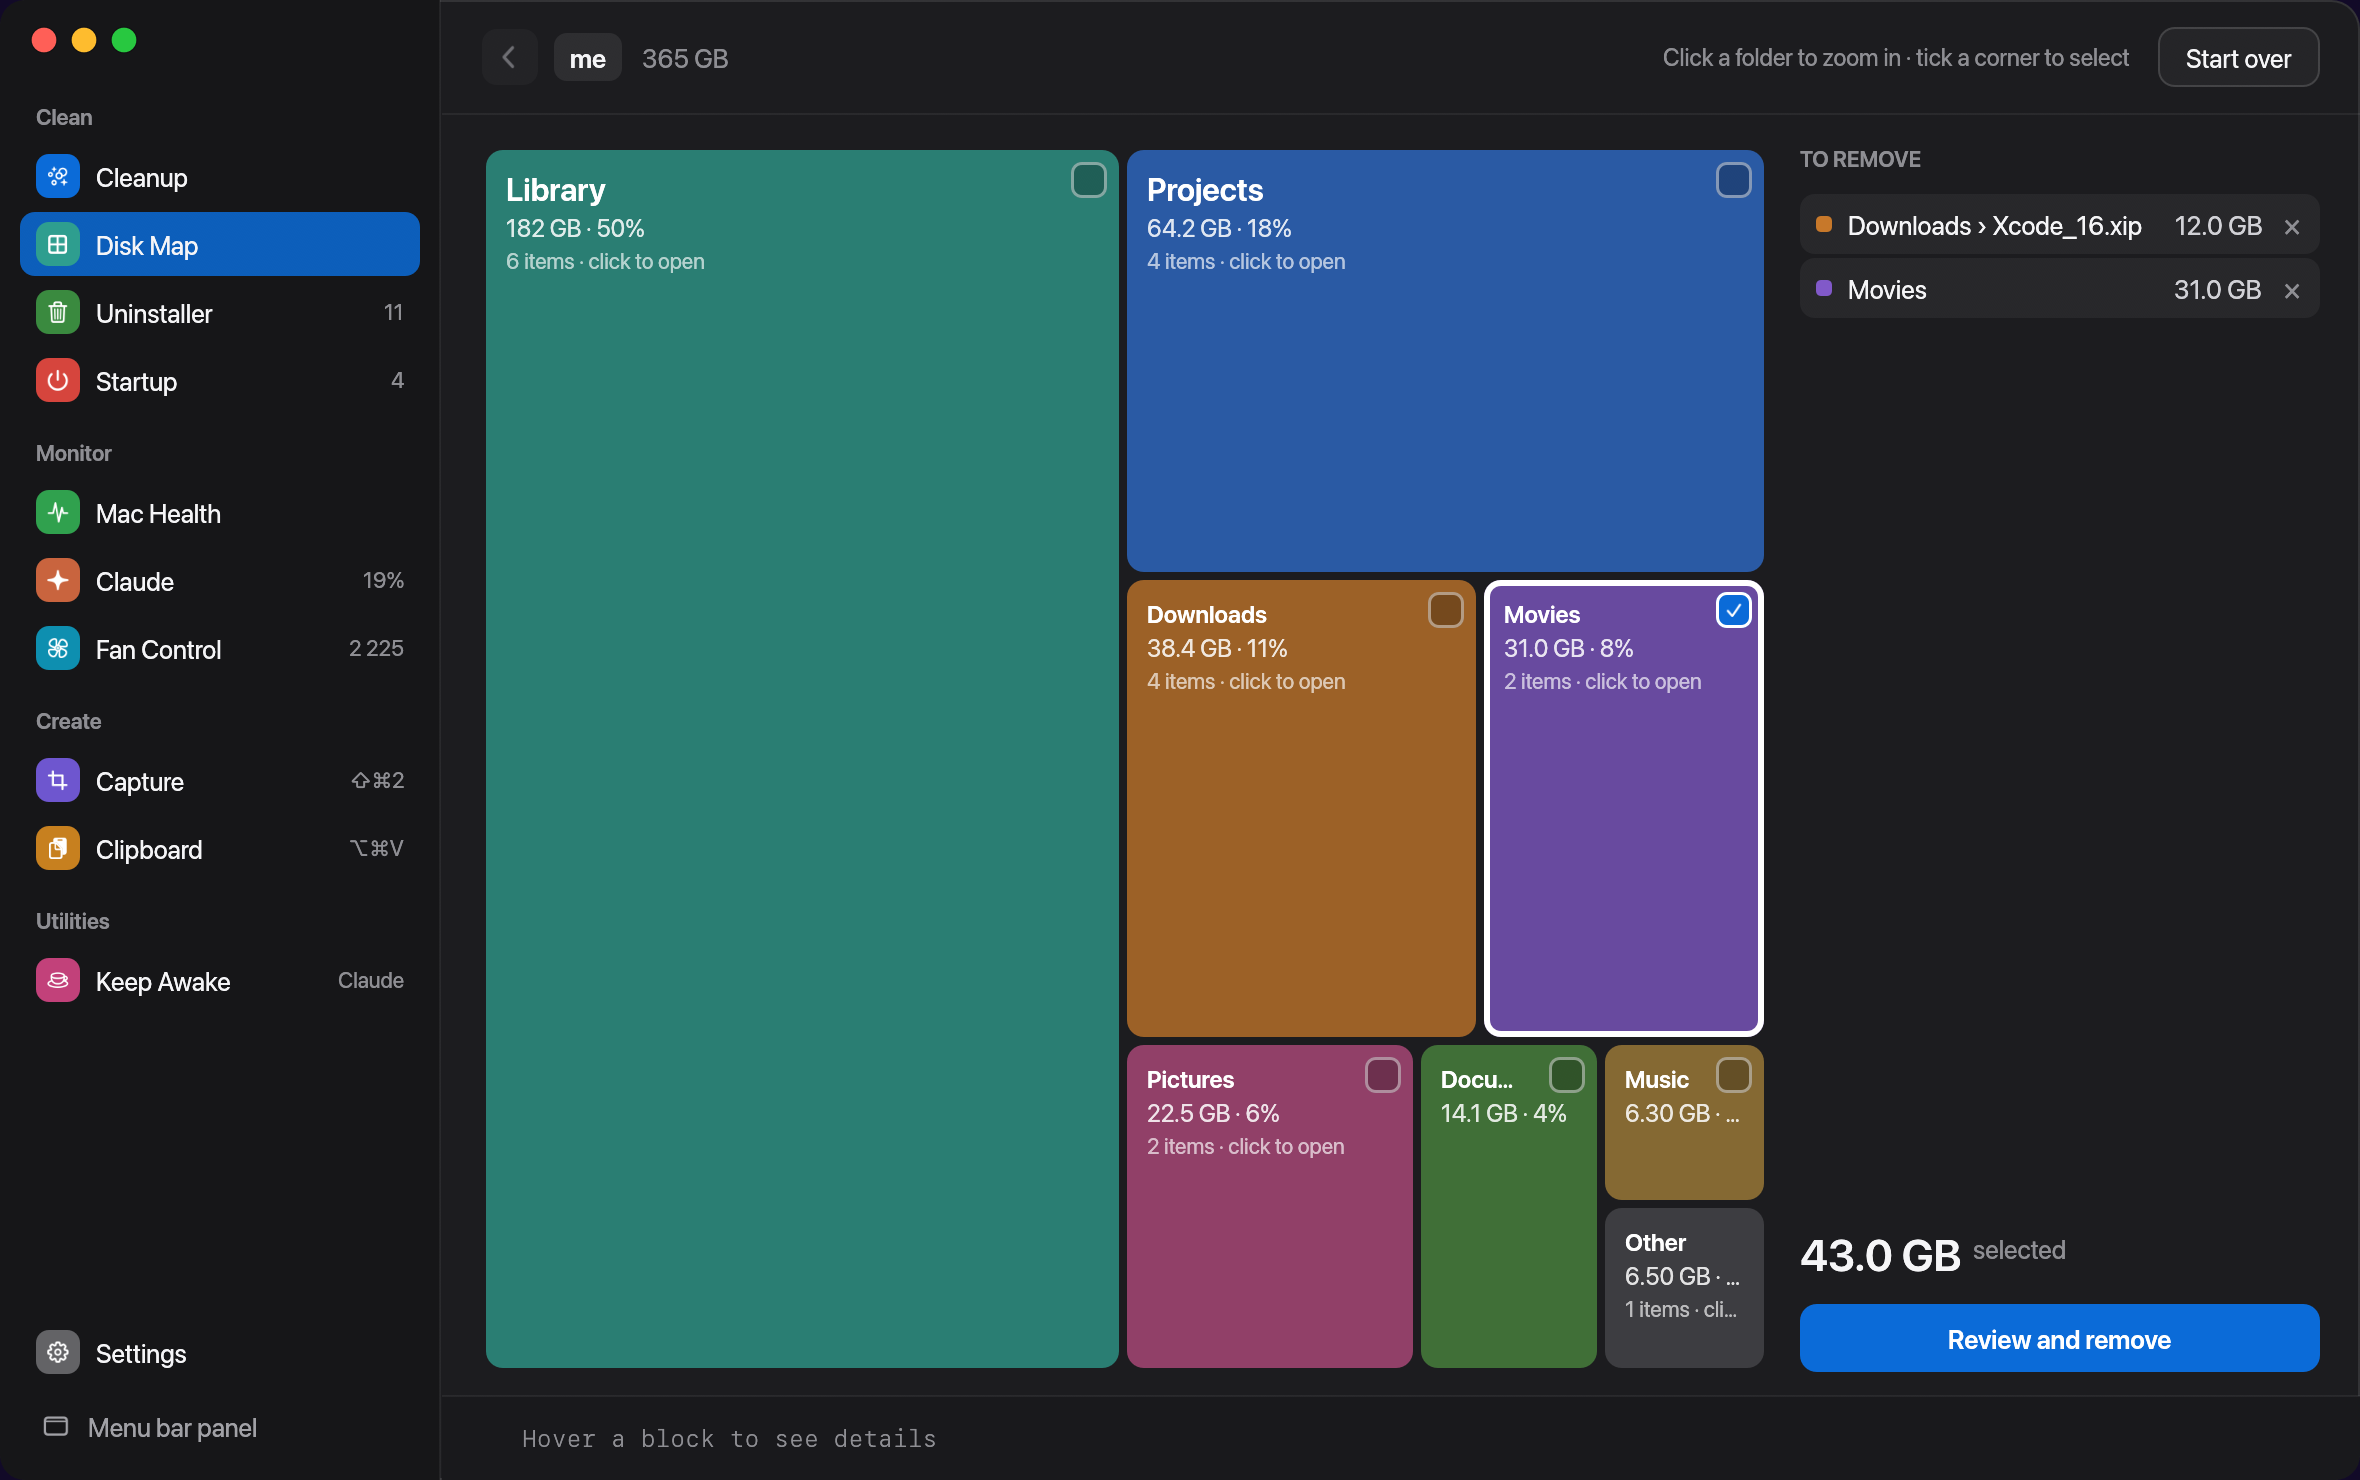
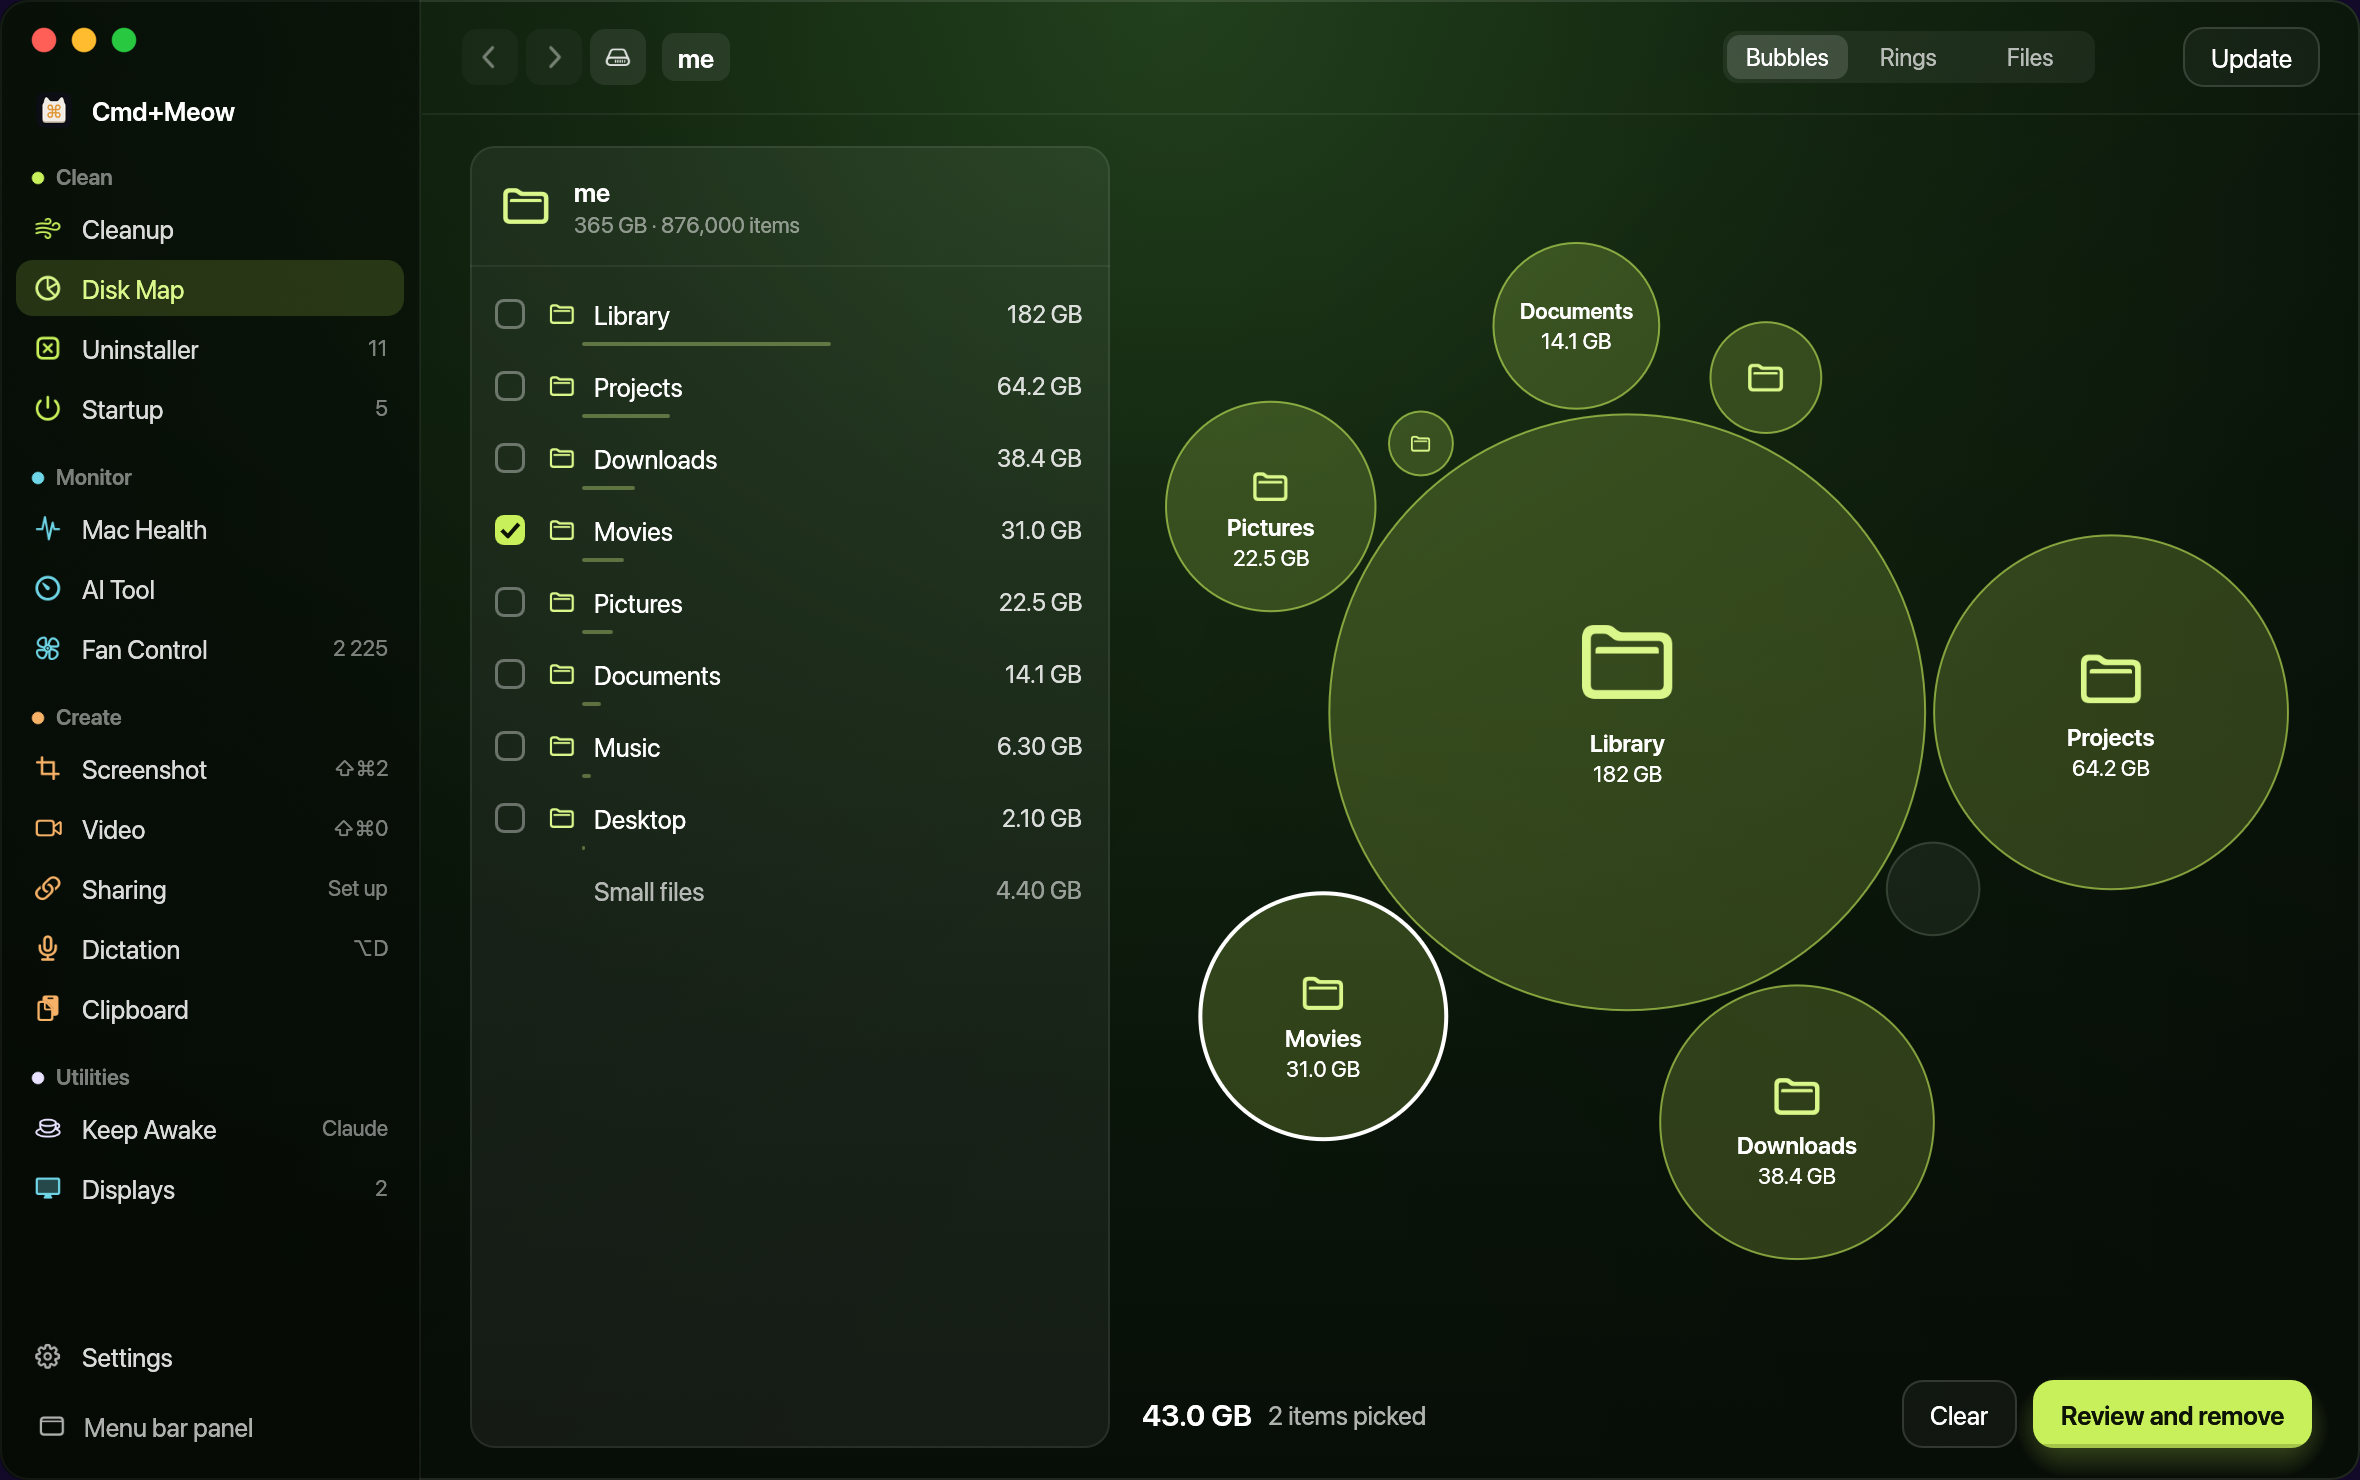
README: fresh screenshots
Claude-Session: https://claude.ai/code/session_01384rfTdmX5wTY2g2PdiHqB

diff --git a/README.md b/README.md
@@ -53,6 +53,14 @@ Latest version: **0.1.1** ([release notes](https://github.com/romanfurman6/cmdme
 
 ![Disk Map](docs/images/lens.png)
 
+<p align="center">
+  <img src="docs/images/ai-usage.png" width="720" alt="AI Usage">
+</p>
+
+<p align="center">
+  <img src="docs/images/clipboard.png" width="720" alt="Clipboard history">
+</p>
+
 ## Requirements
 
 - macOS (uses AppKit for the glass material and menu bar behavior)
